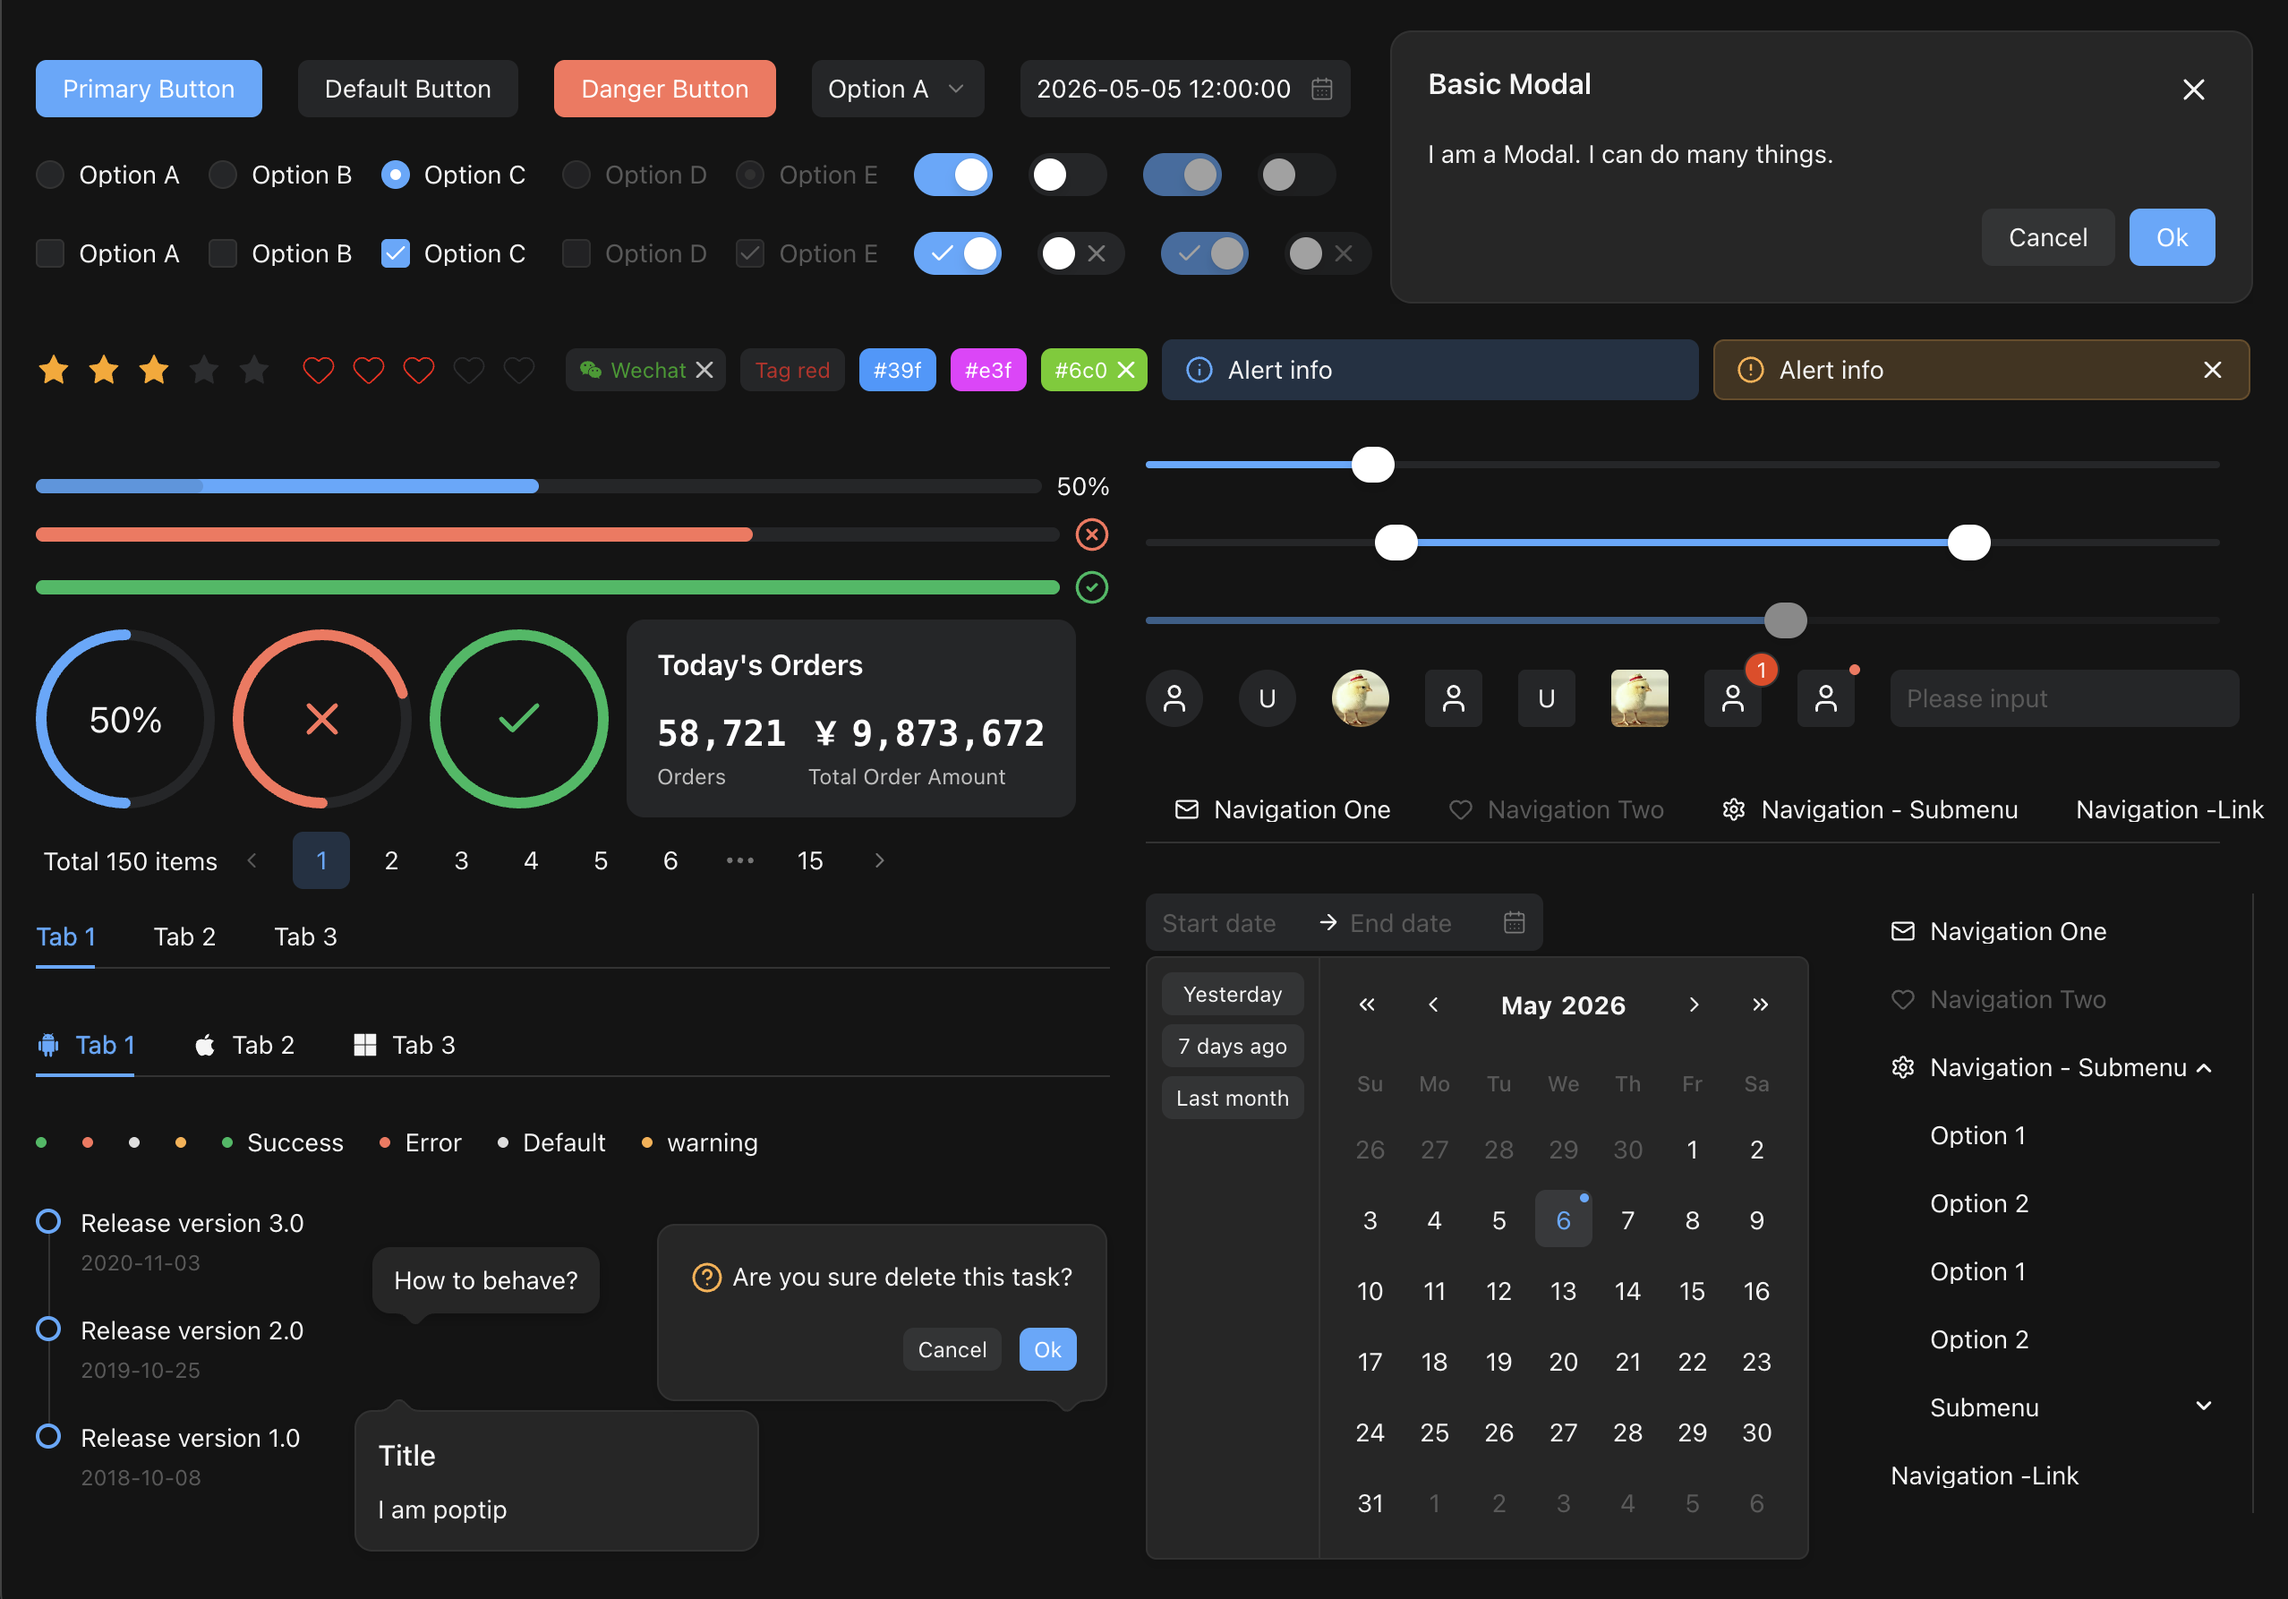
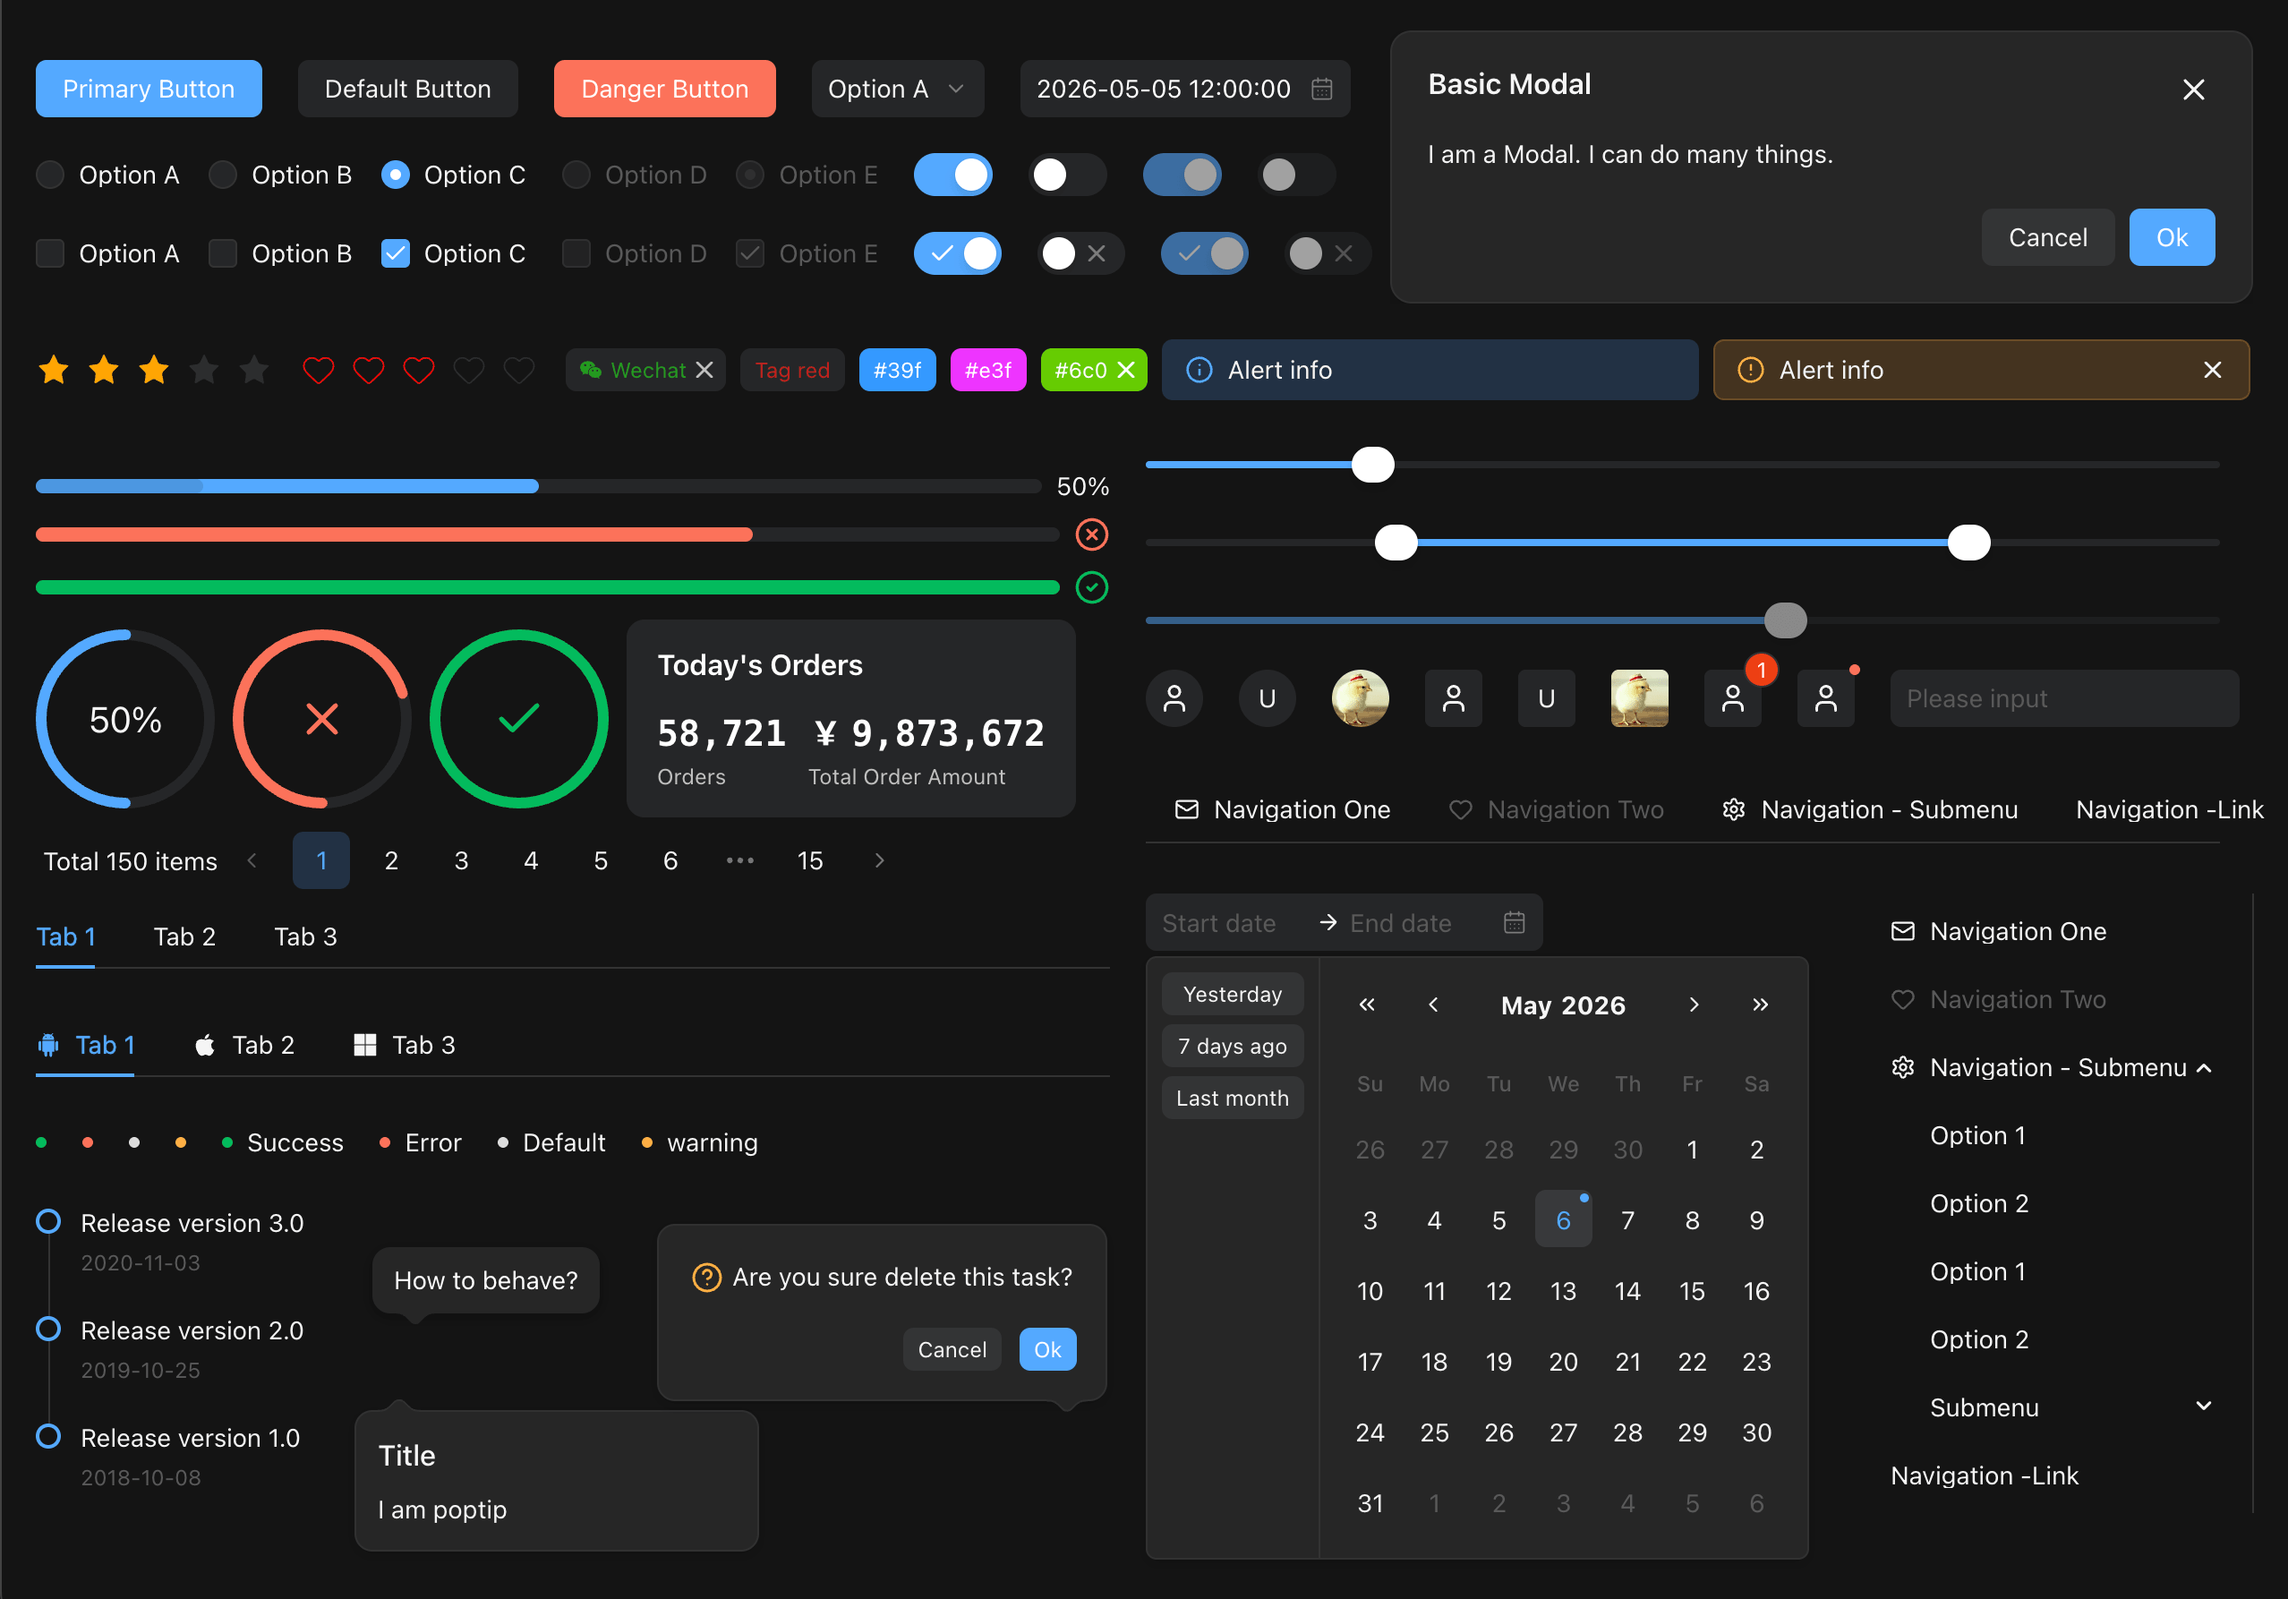
fix: 更新 README 中的安装命令以反映正确的包名

diff --git a/readme.md b/readme.md
@@ -20,7 +20,7 @@ English · [简体中文](README.zh-CN.md)
 
 ![React KUI theme preview](.github/assets/demo.png)
 
-<p align="center"><code>pnpm add kui-vue</code></p>
+<p align="center"><code>pnpm add react-kui</code></p>
 
 ## Features
 

diff --git a/README.zh-CN.md b/README.zh-CN.md
@@ -20,7 +20,7 @@
 
 ![React KUI 主题预览](.github/assets/demo.png)
 
-<p align="center"><code>pnpm add kui-vue</code></p>
+<p align="center"><code>pnpm add react-kui</code></p>
 
 ## 特性
 
